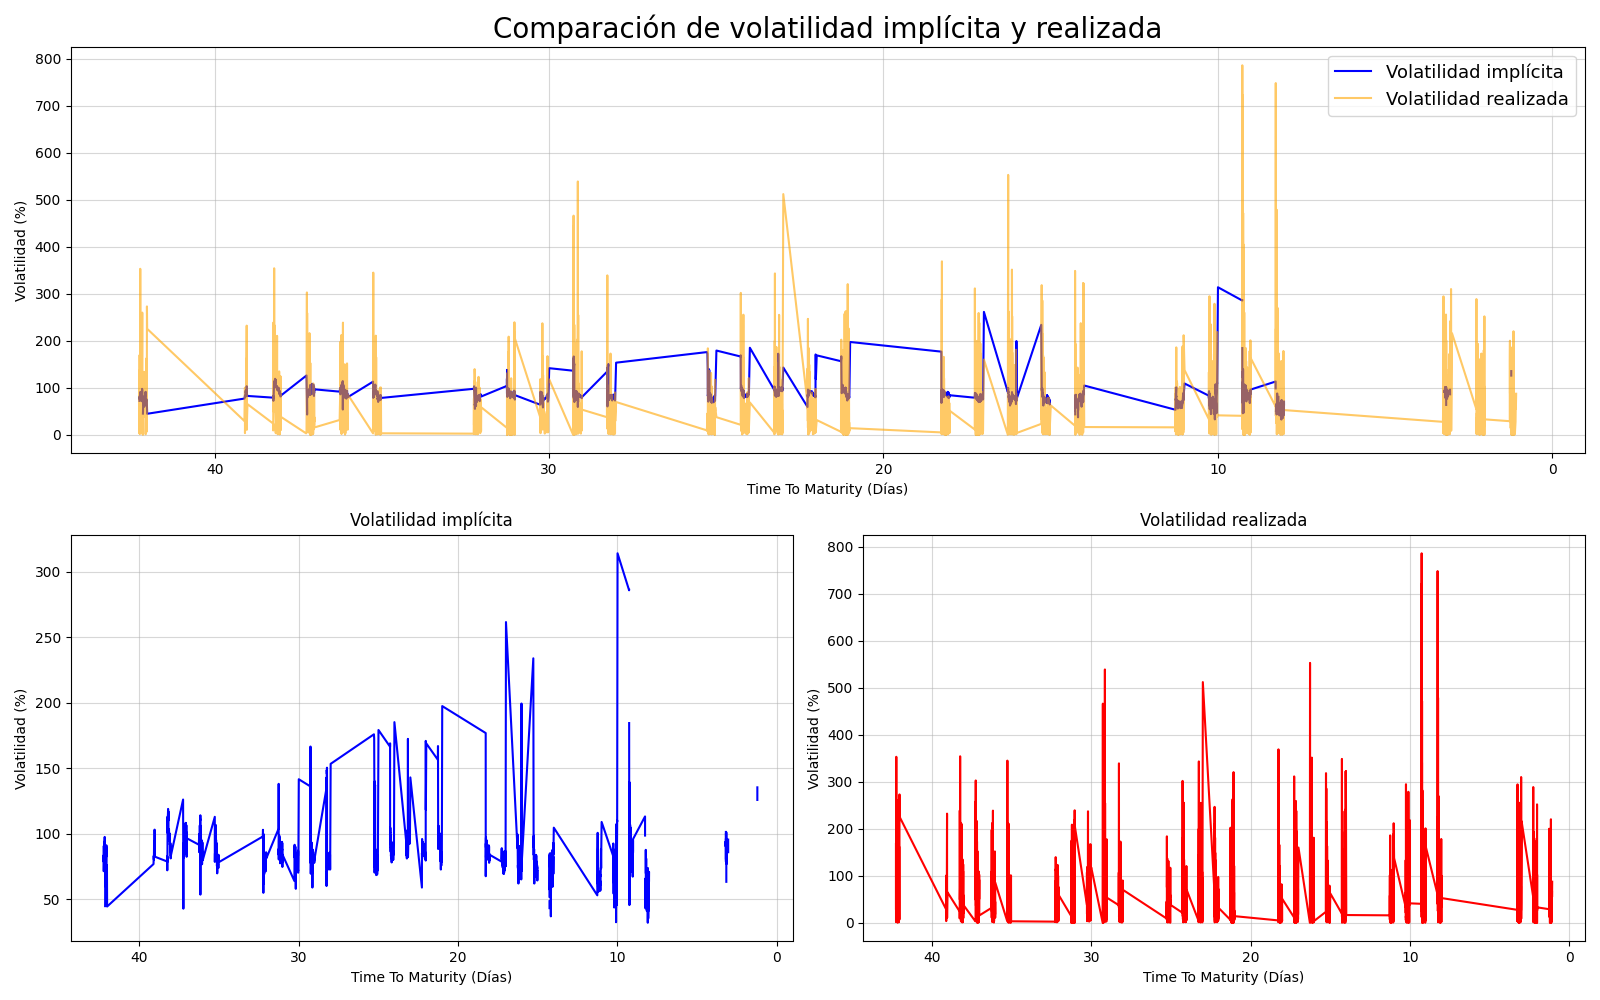
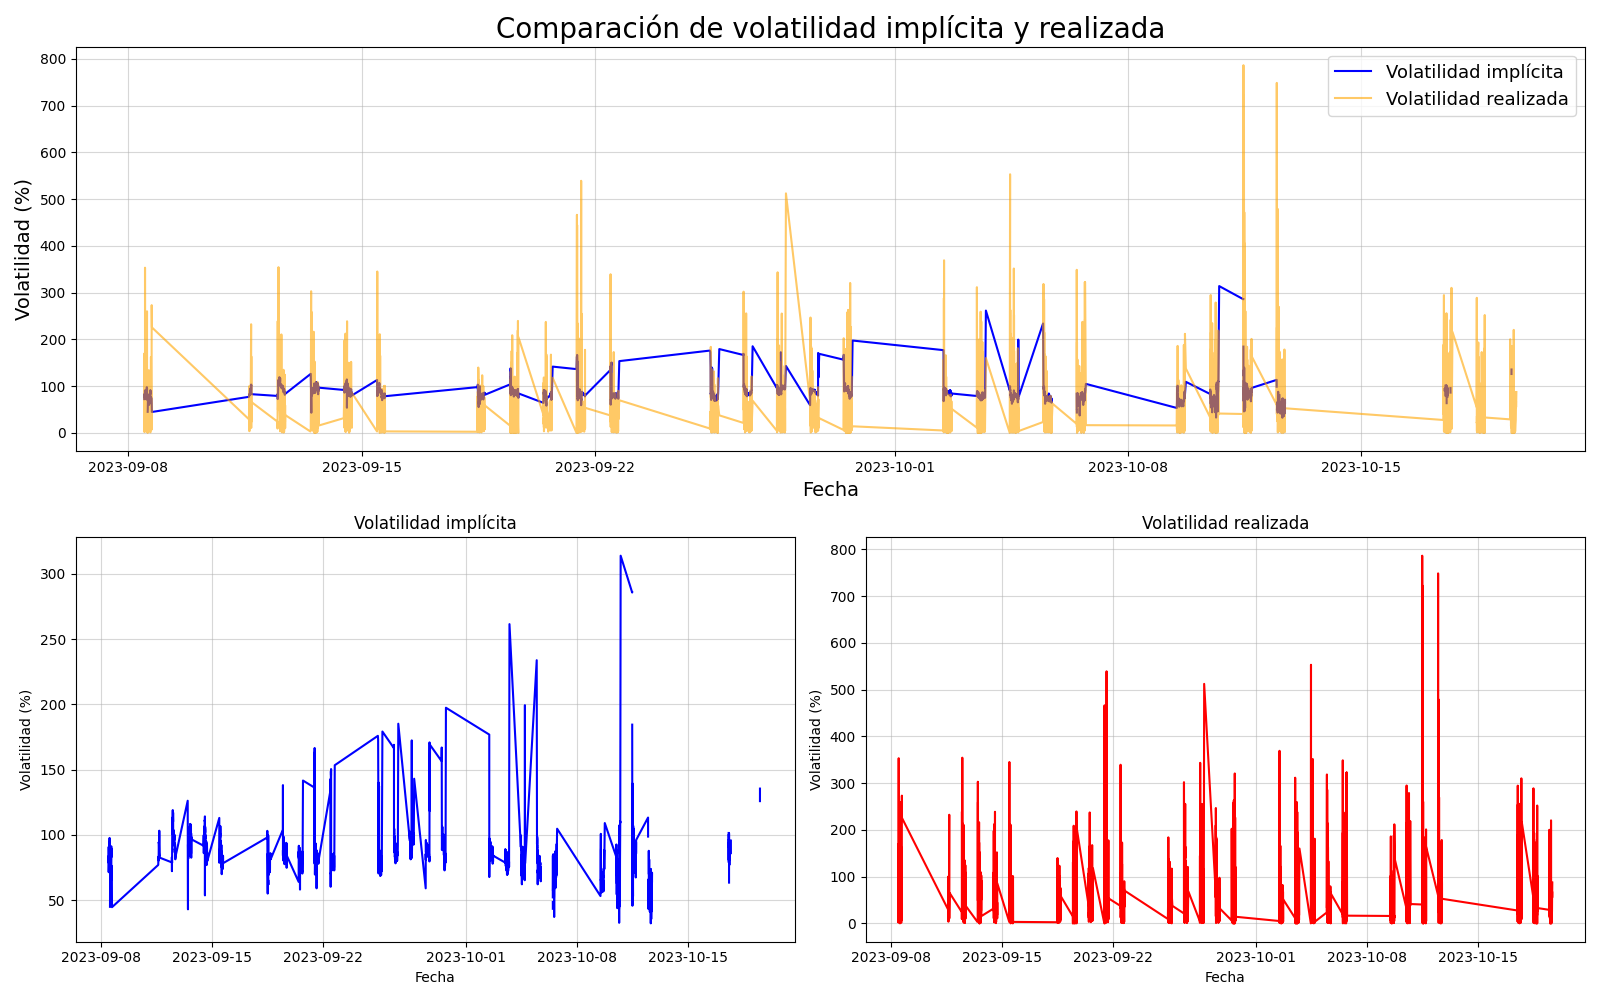
changed x axis to dates

diff --git a/generateGraph.py b/generateGraph.py
@@ -1,52 +1,58 @@
 import pandas as pd
 import numpy as np
 import matplotlib.pyplot as plt
-
+import matplotlib.dates
 
 # Cargo los archivos a utilizar, los resultados del programa computeVols.cpp y además la tira temporal obtenida al procesar
 # los datos.
 implied = pd.read_csv('impliedVols.csv')
 realized = pd.read_csv('realizedVols.csv')
+dates = pd.read_csv('dates.csv')
+dates.created_at = pd.to_datetime(dates.created_at)
 times = pd.read_csv('processedData.csv', sep = ';')
 times['times'] = times.timeToMaturity.apply(lambda x: x*365)
 times = times['times'].tolist()
 
 # Dado que para la realizada tengo un punto menos genero dos tiras temporales.
-impliedTimes = times
-realizedTimes = times[1:]
+# impliedDates = times
+# realizedDates = times[1:]
+impliedDates = dates
+realizedDates = dates[1:]
 
 # Genero una figura que contiene los resultados obtenidos para las volatilidades. Esta contiene tres gráficos.
 # Arriba los resultados obtenidos para ambas volatilidades superpuestas. Abajo ambas volatilidades por separado para
 # mayor claridad.
 fig = plt.figure(figsize = (16,10))
 plt.subplot(2, 1, 1)
-plt.plot(impliedTimes, implied*100, color = 'blue', label = 'Volatilidad implícita')
-plt.plot(realizedTimes, realized*100, color = 'orange', alpha = 0.6, label = 'Volatilidad realizada')
-ax = plt.gca()
-ax.invert_xaxis()
-plt.xlabel('Time To Maturity (Días)')
-plt.ylabel('Volatilidad (%)')
+plt.plot(impliedDates, implied*100, color = 'blue', label = 'Volatilidad implícita')
+plt.plot(realizedDates, realized*100, color = 'orange', alpha = 0.6, label = 'Volatilidad realizada')
+# ax = plt.gca()
+# ax.invert_xaxis()
+plt.xlabel('Fecha', fontsize = 14)
+plt.ylabel('Volatilidad (%)', fontsize = 14)
 plt.legend(fontsize = 13)
 plt.grid(alpha = 0.5)
 plt.title('Comparación de volatilidad implícita y realizada', fontsize = 20)
 
+
+
 plt.subplot(2, 2, 3)
-plt.plot(impliedTimes, implied*100, color='blue')
+plt.plot(impliedDates, implied*100, color='blue')
 plt.title('Volatilidad implícita')
-plt.xlabel('Time To Maturity (Días)')
+plt.xlabel('Fecha')
 plt.ylabel('Volatilidad (%)')
 plt.grid(alpha = 0.5)
-ax = plt.gca()
-ax.invert_xaxis()
+# ax = plt.gca()
+# ax.invert_xaxis()
     
 plt.subplot(2, 2, 4)
-plt.plot(realizedTimes, realized*100, color='red')
+plt.plot(realizedDates, realized*100, color='red')
 plt.title('Volatilidad realizada')
-plt.xlabel('Time To Maturity (Días)')
+plt.xlabel('Fecha')
 plt.ylabel('Volatilidad (%)')
 plt.grid(alpha = 0.5)
-ax = plt.gca()
-ax.invert_xaxis()
+# ax = plt.gca()
+# ax.invert_xaxis()
 
 plt.tight_layout()
 

diff --git a/dataPreprocessing.py b/dataPreprocessing.py
@@ -36,7 +36,9 @@ data.drop(columns = ['bid', 'ask', 'underAsk', 'underBid'], axis = 1, inplace = 
 
 # Transformo las fechas a tipo datetime lo cual me facilita encontrar el time to maturity
 data.created_at = pd.to_datetime(data.created_at)
-
+#Copio y guardo las fechas para usar en los gráficos.
+dates_df = data.created_at.copy()
+dates_df.to_csv('dates.csv', index = False)
 # 20/10/2023 17:30. Por lo consultado por mail, el día de cierre sería este, buscando por internet encontré que el
 # horario suele ser ese también.
 
